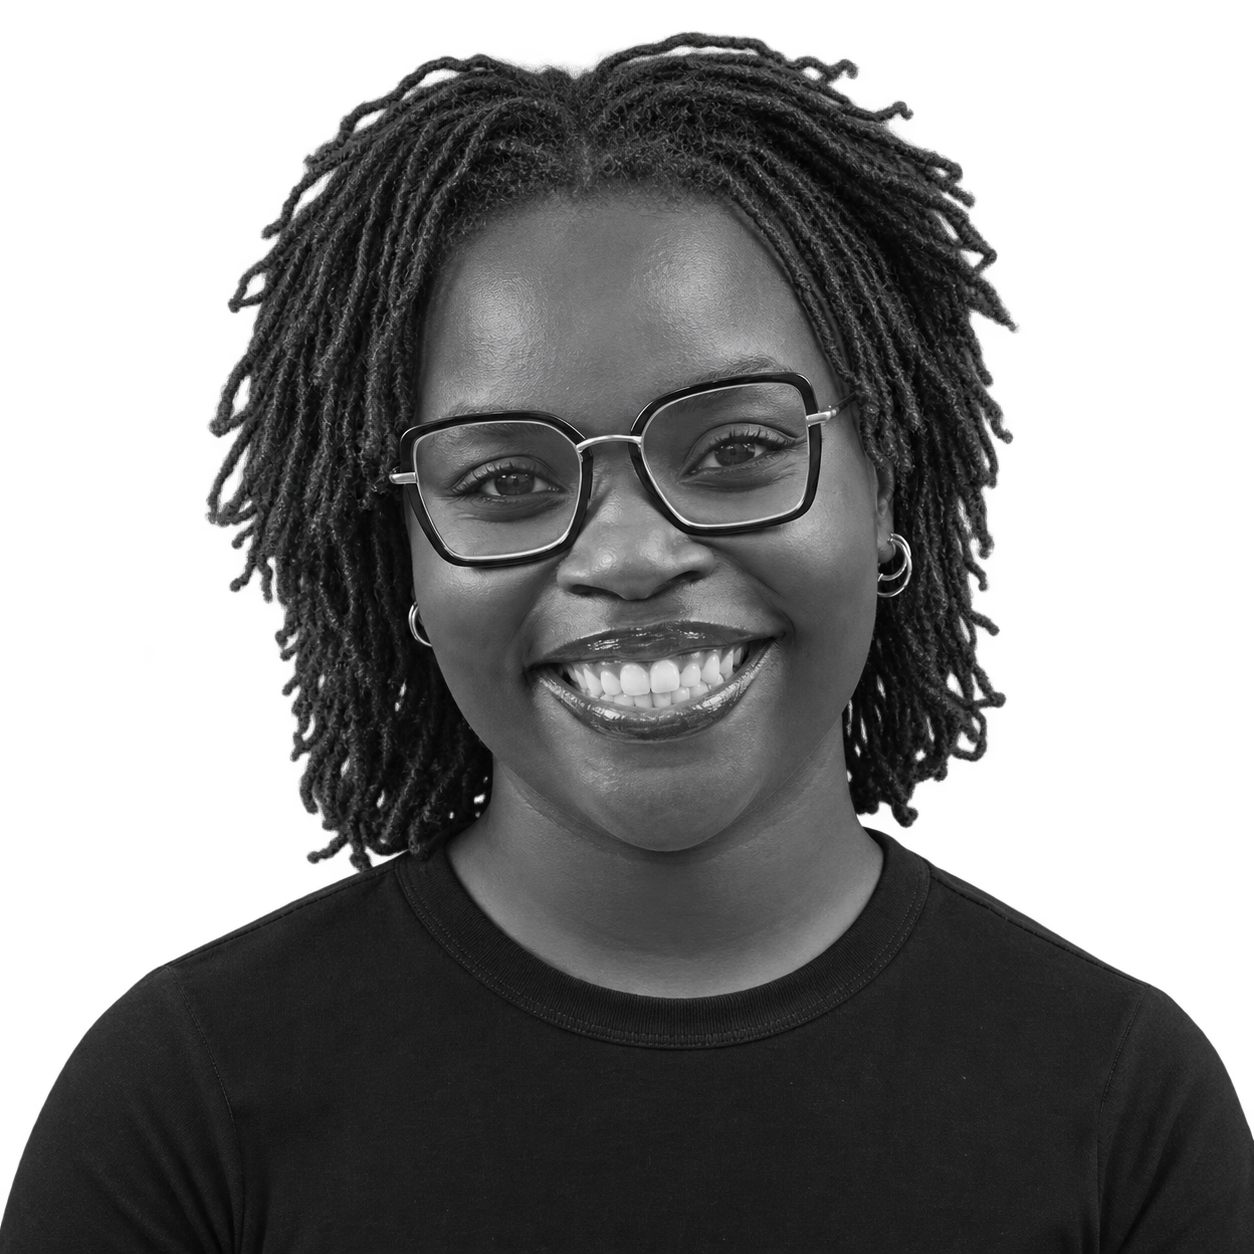
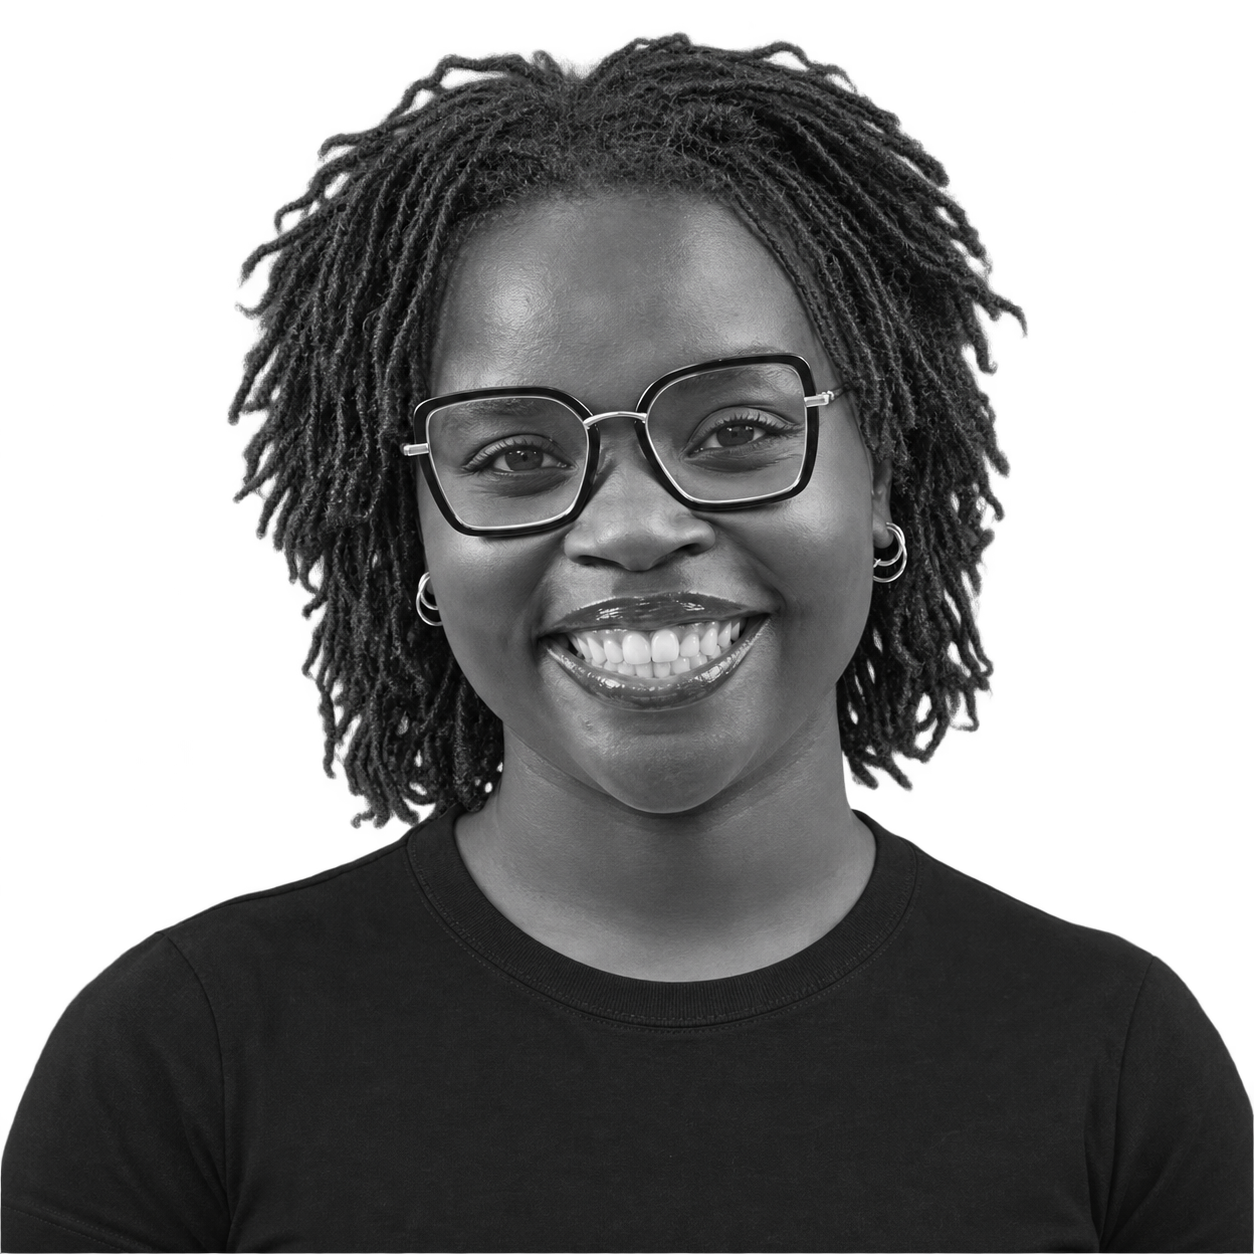
chore: add blog article and update edi image

Changed region(s): [[0.0, 0.0, 0.8397, 0.9641], [0.0, 0.6842, 1.0, 1.0]]

diff --git a/content/blog/en/how-spaced-repetition-works.md b/content/blog/en/how-spaced-repetition-works.md
@@ -1,0 +1,95 @@
+---
+title: 'How Spaced Repetition Works (and How to Use It to Study)'
+description: 'Spaced repetition means reviewing material at growing intervals, just before you would forget it. Here is why it works, a simple schedule to start with, and the mistakes to avoid.'
+date: 2026-11-16
+author: edwina
+featured: true
+cover: /blog-covers/spaced-repetition-how-to.png
+coverAlt: 'How spaced repetition works'
+takeaways:
+  - Spaced repetition means reviewing at growing intervals instead of all at once.
+  - The best time to review is just before you would forget, when recalling takes real effort.
+  - Active recall is how you review; spaced repetition is when. They work best together.
+  - Start early, keep sessions short, and bring the hard questions back sooner.
+---
+
+You study a topic for two hours, feel like you've nailed it, and a week later it's mostly gone. That isn't a personal failing. It's how memory works, and spaced repetition is the method built to work with it instead of against it.
+
+This guide explains what spaced repetition is, why it works, and how to build it into your study routine, even if you've never used a flashcard app.
+
+## What Is Spaced Repetition?
+
+Spaced repetition is a study method where you review material at increasing intervals over time, instead of all at once. You might review a topic the day after you learn it, then three days later, then a week later, then two weeks later. Each time you successfully recall it, the gap before the next review gets longer.
+
+The opposite is cramming: reviewing everything in one long session right before an exam. Cramming can get you through a test tomorrow, but the material tends to disappear soon after, because it was never given the chance to settle into long-term memory.
+
+## Why It Works: The Forgetting Curve
+
+In the 1880s, the psychologist Hermann Ebbinghaus ran memory experiments on himself and found that we forget newly learned information quickly at first, then more slowly over time. This pattern is known as the **forgetting curve**.
+
+The important discovery is what happens when you review. Each time you retrieve a memory just as it starts to fade, it becomes stronger and fades more slowly afterward. So the best moment to review something is not right after you learn it, when it's still fresh and review feels easy. It's shortly before you'd forget it, when recalling it takes real effort.
+
+Researchers call the broader finding the **spacing effect**: studying the same material across several sessions produces better long-term retention than studying it the same total amount in one sitting. It's one of the most consistently supported findings in the science of learning.
+
+## Spaced Repetition vs. Active Recall
+
+These two ideas are often confused, but they answer different questions.
+
+**Active recall** is *how* you review: testing yourself from memory instead of re-reading. (We cover this in [active recall vs. re-reading](/en/blog/active-recall-vs-rereading).)
+
+**Spaced repetition** is *when* you review: spreading those tests out over time.
+
+They work best together. Active recall makes each review session effective, and spacing makes the benefits last. Re-reading your notes on a spaced schedule is better than cramming, but answering questions on a spaced schedule is far better still.
+
+## A Simple Spaced Repetition Schedule
+
+You don't need software to start. A common pattern for reviewing a topic after you first learn it looks like this:
+
+- **Day 1:** review the day after you first study it
+- **Day 3:** review again
+- **Day 7:** one week after learning
+- **Day 14:** two weeks after learning
+- **Day 30:** one month after learning
+
+If your exam is sooner than 30 days away, fit as many of these as you can and add a final review the day before.
+
+The exact numbers aren't magic. The principle is what matters: gaps that grow as the memory gets stronger.
+
+### Not Every Topic Needs the Same Schedule
+
+A fixed schedule is a good starting point, but real material isn't equal. Some concepts click right away and some keep slipping. A better approach adjusts to how you actually perform:
+
+- If you answer a question easily, wait longer before seeing it again.
+- If you struggle or get it wrong, bring it back sooner.
+
+This is the idea behind spaced repetition software. It tracks how well you know each item and schedules the next review for you, so your time goes to the material you're most likely to forget instead of what you already know well.
+
+## How to Start Using Spaced Repetition Today
+
+1. **Turn your notes into questions.** Spaced repetition only works if you have something to review. Convert your material into questions you can answer from memory. Our guide on [how to turn lecture notes into practice questions](/en/blog/turn-lecture-notes-into-practice-questions) walks through it step by step.
+2. **Start early.** Spacing needs time. Beginning three weeks before an exam gives you far more useful review sessions than beginning three days before.
+3. **Keep sessions short.** Fifteen to twenty minutes a day beats a long weekly session. Short, frequent reviews are easier to keep up, and consistency is what makes spacing work.
+4. **Mark what's hard.** After each question, note whether it was easy, medium, or hard, and bring the hard ones back sooner.
+5. **Mix topics.** Once you've reviewed individual topics, shuffle them together. Real exams don't tell you which chapter a question comes from.
+
+## Common Mistakes
+
+**Reviewing too soon or too often.** If recalling something feels effortless every time, you're probably reviewing it too frequently. A bit of struggle is a good sign.
+
+**Skipping days and then catching up in one block.** That turns spaced review back into cramming. If you miss a day, simply carry on from where you are.
+
+**Reviewing by re-reading.** Spacing helps re-reading a little. It helps testing yourself much more.
+
+**Giving up on the setup.** Most people quit because building and scheduling questions by hand takes so much effort, not because the method fails.
+
+## Doing It Without the Manual Work
+
+Tracking intervals and building question banks by hand is exactly what stops most students from sticking with spaced repetition. [Freshman](/en) takes that off your plate. Upload your notes, textbook chapters, PDFs or past papers, and it generates active recall questions from them. Then it serves you a personalised daily feed where you mark each question easy, medium or hard, and it adapts what you see based on your answers.
+
+You get the benefits of spacing without managing a spreadsheet of review dates.
+
+## The Bottom Line
+
+Spaced repetition works because it matches how memory actually behaves: we forget fast at first, and each well-timed review makes a memory last longer. Pair it with active recall, start early, and review in short, regular sessions.
+
+Ready to try it? [Download Freshman on the App Store](https://apps.apple.com/app/id6755386478) and turn your next set of notes into a daily review routine.

diff --git a/content/blog/en/turn-lecture-notes-into-practice-questions.md b/content/blog/en/turn-lecture-notes-into-practice-questions.md
@@ -4,7 +4,6 @@ description: 'Your notes are a record of information, not a test of it. A step-b
 date: 2026-10-30
 cover: /blog-covers/notes-to-practice-cover.png
 coverAlt: 'Turning lecture notes into practice questions'
-featured: true
 author: edwina
 takeaways:
   - Notes record information. Practice questions test it, and retrieval is what makes it stick.
